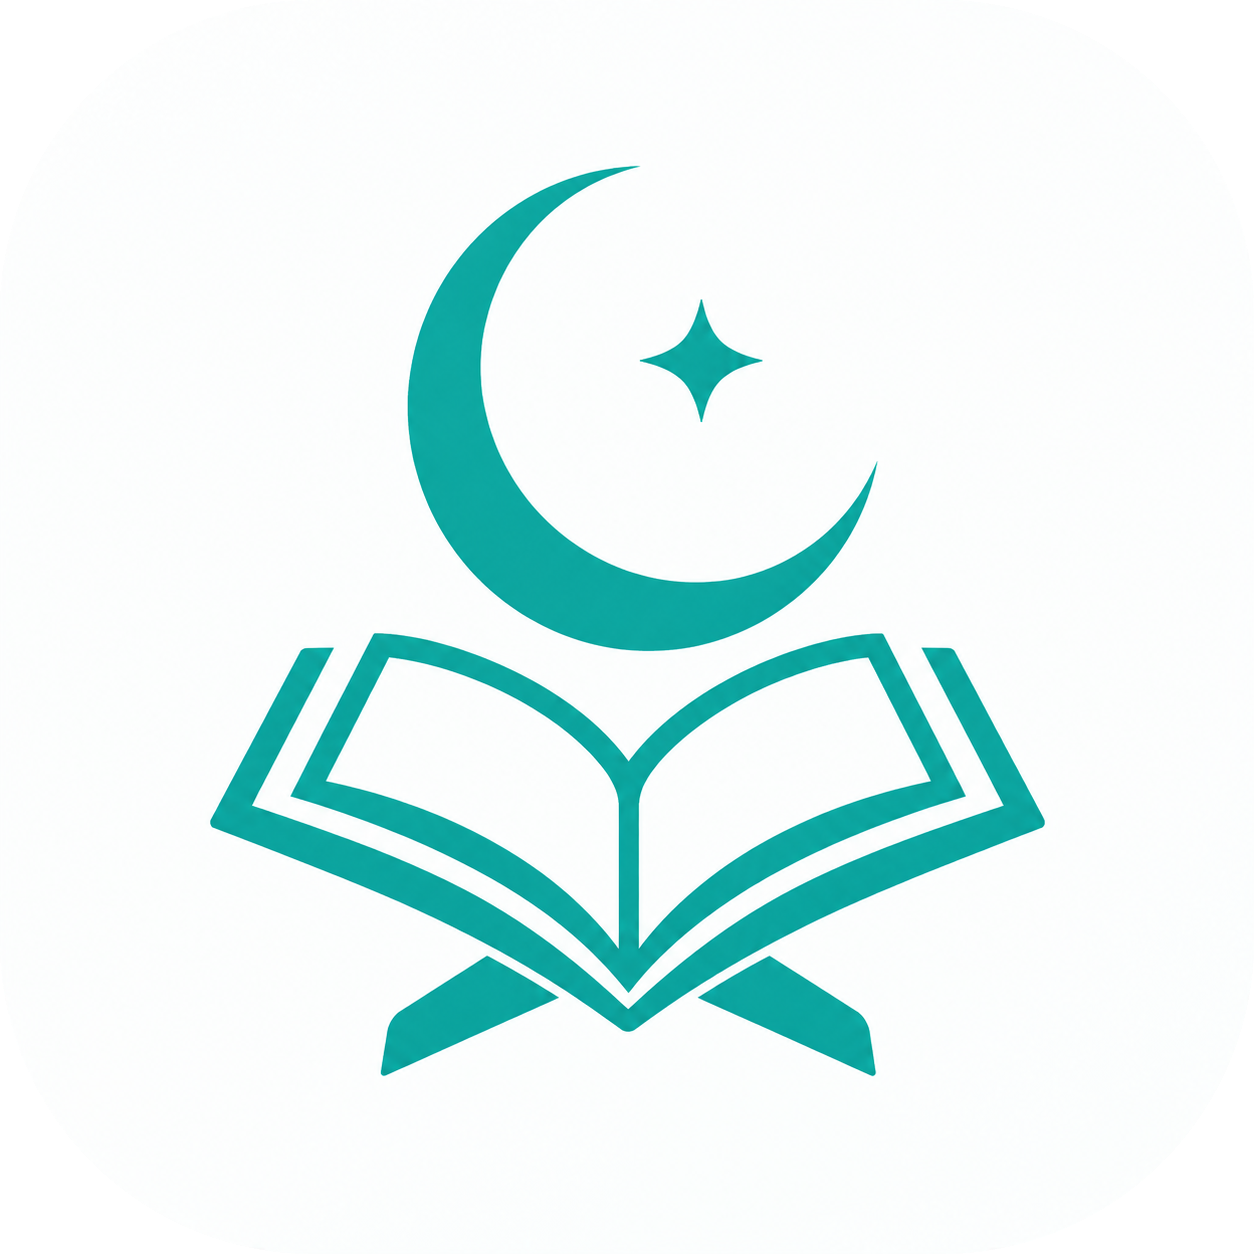
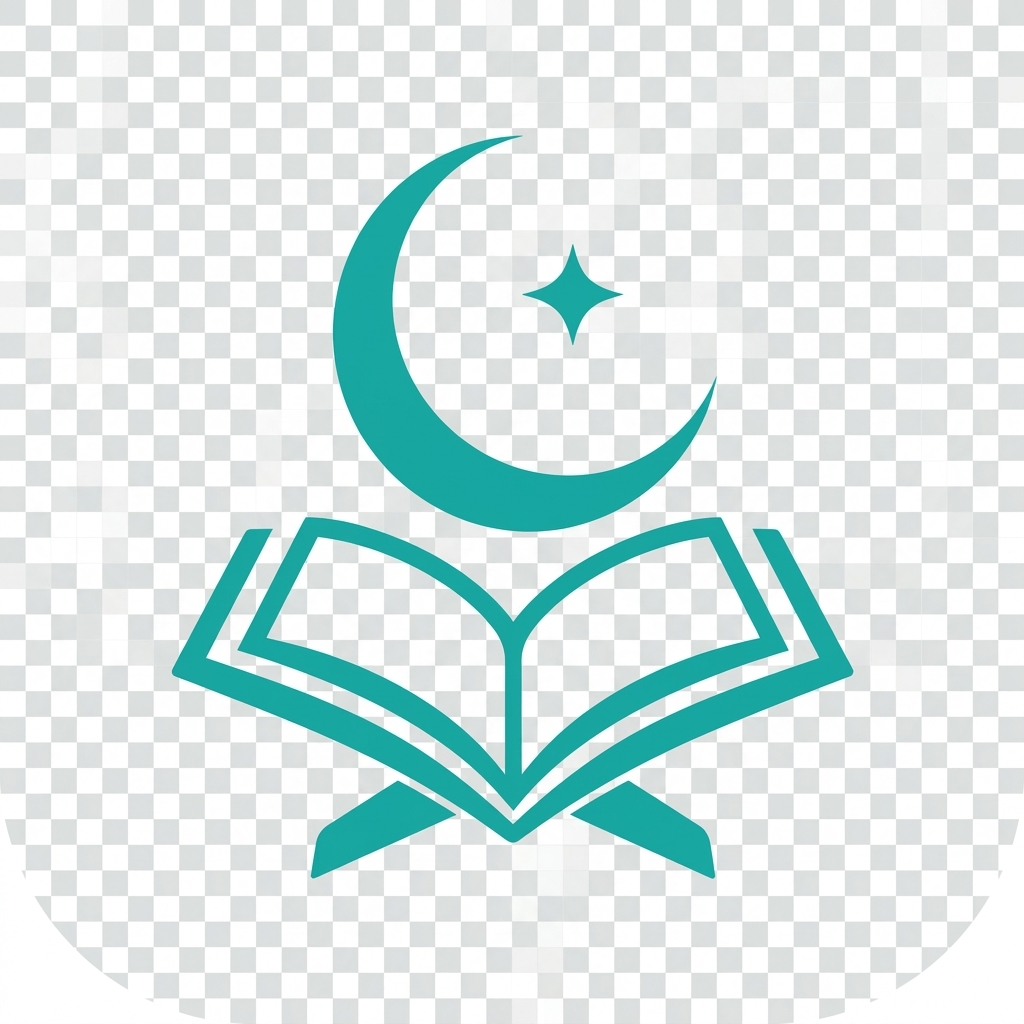
splash screen schanged

diff --git a/App.tsx b/App.tsx
@@ -106,7 +106,18 @@ const THEME_MAP: Record<
 
 export default function App() {
   const webViewRef = useRef<WebView>(null);
-  const [isLoading, setIsLoading] = useState(true);
+  const [webViewLoading, setWebViewLoading] = useState(true);
+  const [minTimeElapsed, setMinTimeElapsed] = useState(false);
+
+  // Enforce a minimum of 4 seconds loading duration on initial launch
+  React.useEffect(() => {
+    const timer = setTimeout(() => {
+      setMinTimeElapsed(true);
+    }, 4000);
+    return () => clearTimeout(timer);
+  }, []);
+
+  const isLoading = webViewLoading || !minTimeElapsed;
 
   // Set defaults based on 'mint' (the default theme shown in the user's screenshot)
   const [safeAreaColor, setSafeAreaColor] = useState('#f0fdfa');
@@ -171,8 +182,8 @@ export default function App() {
             showsVerticalScrollIndicator={false}
             bounces={false}
             overScrollMode="never"
-            onLoadStart={() => setIsLoading(true)}
-            onLoadEnd={() => setIsLoading(false)}
+            onLoadStart={() => setWebViewLoading(true)}
+            onLoadEnd={() => setWebViewLoading(false)}
             onShouldStartLoadWithRequest={(request) => {
               return true;
             }}